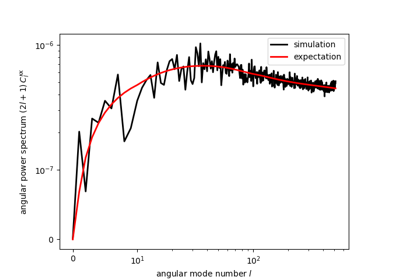
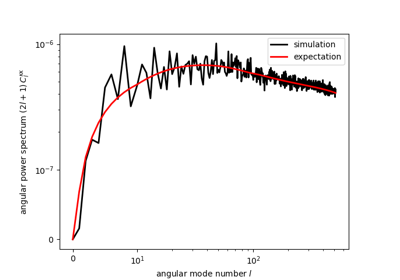
DOC: update examples

Changed region(s): [[0.18, 0.1429, 0.84, 0.8571], [0.09, 0.1429, 0.15, 0.1714]]

diff --git a/docs/examples/1_basic/plot_lensing.rst b/docs/examples/1_basic/plot_lensing.rst
@@ -128,7 +128,7 @@ To make sure the simulation works, compute the angular power spectrum ``cls``
 of the simulated convergence field, and compare with the expectation (from
 CAMB) for the given redshift distribution of sources.
 
-.. GENERATED FROM PYTHON SOURCE LINES 86-106
+.. GENERATED FROM PYTHON SOURCE LINES 86-109
 
 .. code-block:: default
 
@@ -142,10 +142,13 @@ CAMB) for the given redshift distribution of sources.
     pars.SourceWindows = [camb.sources.SplinedSourceWindow(z=z, W=nz, source_type='lensing')]
     theory_cls = camb.get_results(pars).get_source_cls_dict(lmax=lmax, raw_cl=True)
 
+    # get the pixel window function
+    pw = hp.pixwin(nside, lmax=lmax)
+
     # plot the realised and expected cls
     l = np.arange(lmax+1)
     plt.plot(l, (2*l+1)*cls[0], '-k', lw=2, label='simulation')
-    plt.plot(l, (2*l+1)*theory_cls['W1xW1'], '-r', lw=2, label='expectation')
+    plt.plot(l, (2*l+1)*theory_cls['W1xW1']*pw**2, '-r', lw=2, label='expectation')
     plt.xscale('symlog', linthresh=10, linscale=0.5, subs=[2, 3, 4, 5, 6, 7, 8, 9])
     plt.yscale('symlog', linthresh=1e-7, linscale=0.5, subs=[2, 3, 4, 5, 6, 7, 8, 9])
     plt.xlabel(r'angular mode number $l$')
@@ -167,32 +170,20 @@ CAMB) for the given redshift distribution of sources.
 
 .. rst-class:: sphx-glr-timing
 
-   **Total running time of the script:** ( 0 minutes  31.766 seconds)
+   **Total running time of the script:** ( 0 minutes  37.187 seconds)
 
 
 .. _sphx_glr_download_examples_1_basic_plot_lensing.py:
 
-
-.. only :: html
-
- .. container:: sphx-glr-footer
-    :class: sphx-glr-footer-example
-
-
-
-  .. container:: sphx-glr-download sphx-glr-download-python
-
-     :download:`Download Python source code: plot_lensing.py <plot_lensing.py>`
-
-
-
-  .. container:: sphx-glr-download sphx-glr-download-jupyter
-
-     :download:`Download Jupyter notebook: plot_lensing.ipynb <plot_lensing.ipynb>`
-
-
 .. only:: html
 
- .. rst-class:: sphx-glr-signature
+  .. container:: sphx-glr-footer sphx-glr-footer-example
 
-    `Gallery generated by Sphinx-Gallery <https://sphinx-gallery.github.io>`_
+
+    .. container:: sphx-glr-download sphx-glr-download-python
+
+      :download:`Download Python source code: plot_lensing.py <plot_lensing.py>`
+
+    .. container:: sphx-glr-download sphx-glr-download-jupyter
+
+      :download:`Download Jupyter notebook: plot_lensing.ipynb <plot_lensing.ipynb>`

diff --git a/docs/examples/1_basic/index.rst b/docs/examples/1_basic/index.rst
@@ -1,22 +1,6 @@
-:orphan:
 
 
-Examples
-========
-
-These examples show how GLASS can be used in practice, and can be a good
-starting point for more complicated and realistic simulations.
-
-
-
-.. raw:: html
-
-    <div class="sphx-glr-thumbnails">
-
-
-.. raw:: html
-
-    </div>
+.. _sphx_glr_examples_1_basic:
 
 Basic
 -----
@@ -118,60 +102,13 @@ To get started, these examples focus on simulating one thing at a time.
 
     </div>
 
-Advanced
---------
-More advanced examples, combining multiple interacting generators.
-
-
-
-.. raw:: html
-
-    <div class="sphx-glr-thumbnails">
-
-
-.. raw:: html
-
-    <div class="sphx-glr-thumbcontainer" tooltip="This example simulates a galaxy catalogue with shears affected by weak lensing, combining the s...">
-
-.. only:: html
-
-  .. image:: /examples/2_advanced/images/thumb/sphx_glr_plot_shears_thumb.png
-    :alt: Galaxy shear
-
-  :ref:`sphx_glr_examples_2_advanced_plot_shears.py`
-
-.. raw:: html
-
-      <div class="sphx-glr-thumbnail-title">Galaxy shear</div>
-    </div>
-
-
-.. raw:: html
-
-    <div class="sphx-glr-thumbcontainer" tooltip="This example simulates a galaxy catalogue from a Stage IV Space Satellite Galaxy Survey such as...">
-
-.. only:: html
-
-  .. image:: /examples/2_advanced/images/thumb/sphx_glr_plot_s4_galaxies_thumb.png
-    :alt: Stage IV Galaxy Survey
-
-  :ref:`sphx_glr_examples_2_advanced_plot_s4_galaxies.py`
-
-.. raw:: html
-
-      <div class="sphx-glr-thumbnail-title">Stage IV Galaxy Survey</div>
-    </div>
-
-
-.. raw:: html
-
-    </div>
-
 
 .. toctree::
    :hidden:
-   :includehidden:
 
-   /examples/1_basic/index.rst
-   /examples/2_advanced/index.rst
+   /examples/1_basic/create_new_model
+   /examples/1_basic/plot_density
+   /examples/1_basic/groups
+   /examples/1_basic/photoz
+   /examples/1_basic/plot_lensing
 

diff --git a/docs/examples/2_advanced/index.rst b/docs/examples/2_advanced/index.rst
@@ -1,0 +1,60 @@
+
+
+.. _sphx_glr_examples_2_advanced:
+
+Advanced
+--------
+More advanced examples, combining multiple interacting generators.
+
+
+
+.. raw:: html
+
+    <div class="sphx-glr-thumbnails">
+
+
+.. raw:: html
+
+    <div class="sphx-glr-thumbcontainer" tooltip="This example simulates a galaxy catalogue with shears affected by weak lensing, combining the s...">
+
+.. only:: html
+
+  .. image:: /examples/2_advanced/images/thumb/sphx_glr_plot_shears_thumb.png
+    :alt: Galaxy shear
+
+  :ref:`sphx_glr_examples_2_advanced_plot_shears.py`
+
+.. raw:: html
+
+      <div class="sphx-glr-thumbnail-title">Galaxy shear</div>
+    </div>
+
+
+.. raw:: html
+
+    <div class="sphx-glr-thumbcontainer" tooltip="This example simulates a galaxy catalogue from a Stage IV Space Satellite Galaxy Survey such as...">
+
+.. only:: html
+
+  .. image:: /examples/2_advanced/images/thumb/sphx_glr_plot_s4_galaxies_thumb.png
+    :alt: Stage IV Galaxy Survey
+
+  :ref:`sphx_glr_examples_2_advanced_plot_s4_galaxies.py`
+
+.. raw:: html
+
+      <div class="sphx-glr-thumbnail-title">Stage IV Galaxy Survey</div>
+    </div>
+
+
+.. raw:: html
+
+    </div>
+
+
+.. toctree::
+   :hidden:
+
+   /examples/2_advanced/plot_shears
+   /examples/2_advanced/plot_s4_galaxies
+
